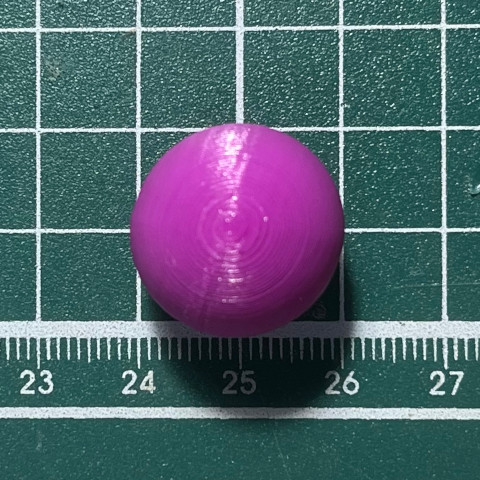
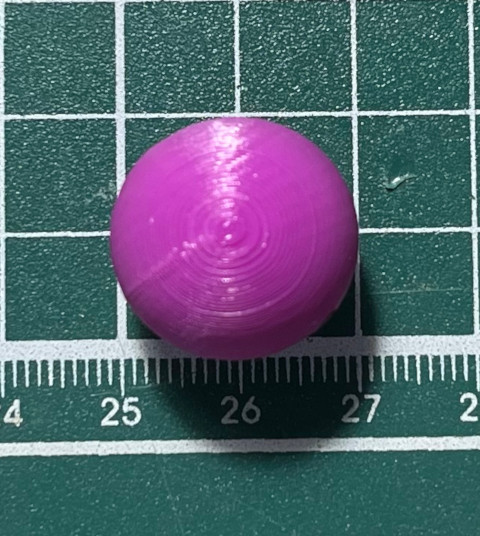
OpenSCAD How to translate.

diff --git a/picture/openscad/translate.htm b/picture/openscad/translate.htm
@@ -1,0 +1,84 @@
+<!--
+ ____________________________________________________________
+|                                                            |
+|    DESIGN + Pat Heard { http://fullahead.org }             |
+|      DATE + 2006.09.12                                     |
+| COPYRIGHT + Free use if this notice is kept in place.      |
+|____________________________________________________________|
+
+-->
+
+<!DOCTYPE html PUBLIC "-//W3C//DTD XHTML 1.0 Strict//EN"
+    "http://www.w3.org/TR/xhtml1/DTD/xhtml1-strict.dtd">
+<html xmlns="http://www.w3.org/1999/xhtml" xml:lang="en" lang="en">
+<head>
+  <title>司徒的教學網站</title>
+  <meta http-lowast="content-type" content="application/xhtml+xml; charset=UTF-8" />
+  <meta name="author" content="fullahead.org" />
+  <meta name="keywords" content="XHTML, CSS, template, FullAhead" />
+  <meta name="description" content="A valid, XHTML 1.0 template" />
+  <meta name="robots" content="index, follow, noarchive" />
+  <meta name="googlebot" content="noarchive" />
+  <meta name="viewport" content="width=device-width, initial-scale=1.0, user-scalable=yes, minimum-scale=0.1, maximum-scale=100.0"/>
+
+  <link rel="shortcut icon" href="../../website.ico">
+  <link rel="stylesheet" type="text/css" href="../../styles/shCore.css" />
+  <link rel="stylesheet" type="text/css" href="../../styles/shThemeDefault.css" />
+  <link rel="stylesheet" type="text/css" href="../../css/html.css" media="screen, projection, tv " />
+  <link rel="stylesheet" type="text/css" href="../../css/layout.css" media="screen, projection, tv" />
+  <link rel="stylesheet" type="text/css" href="../../css/print.css" media="print" />
+  
+  <script type="text/javascript" src="../../scripts/shCore.js"></script>
+  <script type="text/javascript" src="../../scripts/shBrushScad.js"></script>
+
+  <!-- Conditional comment to apply opacity fix for IE #content background.
+       Invalid CSS, but can be removed without harming design -->
+  <!--[if gt IE 5]>
+  <link rel="stylesheet" type="text/css" href="css/ie.css" media="screen, projection, tv " />
+  <![endif]-->
+</head>
+
+<body>
+<script type="text/javascript">SyntaxHighlighter.all();</script>
+<div id="wrapper">
+<div id="content">
+<script type="text/javascript" src="../../header.js"></script>
+<div id="page">
+<h3>OpenSCAD &gt;&gt; 3D</h3>
+<p><b>translate</b></p>
+<hr size="1">
+<p>
+使用方式：
+</p>
+<pre class="brush:scad">
+translate([x, y, z]);
+</pre>
+<p>
+P.S. 移動的長度<br><br>
+
+程式寫好後，按下F5後，再按下F6就可以顯示，按下滑鼠左鍵並拖曳可以旋轉方向，滑鼠右鍵則是移動顯示位置，滑鼠中鍵是縮放顯示，滑鼠的操作都不會影響STL的輸出尺寸<br>
+<img src="translate/1.jpg" class="maxSize"><br>
+P.S. 單位是mm，這是3D印表機的實際列印尺寸<br><br>
+
+輸出STL檔案<br>
+<img src="translate/2.jpg" class="maxSize"><br><br>
+
+使用切片軟體將STL轉換成GCODE<br>
+<img src="translate/3.jpg" class="maxSize"><br><br>
+
+3D印表機列印<br>
+<img src="translate/4.jpg" class="maxSize"><br><br>
+
+完成<br>
+<img src="translate/5.jpg" class="maxSize">
+</p>
+
+<p>
+<br><a href="../../picture.htm">返回上一頁</a>
+</p>
+
+</div>
+</div>
+</div>
+</body>
+</html>

diff --git a/picture.htm b/picture.htm
@@ -121,6 +121,10 @@ cheatsheet</a><br>
     &emsp;&emsp;&emsp;&emsp;&lowast;
     <a href="picture/openscad/cylinder.htm">
     cylinder</a><br>
+
+&lowast;
+<a href="picture/openscad/translate.htm">
+translate</a><br>
 <br><br><br><br>
 
 <div id="kicad"></div>
